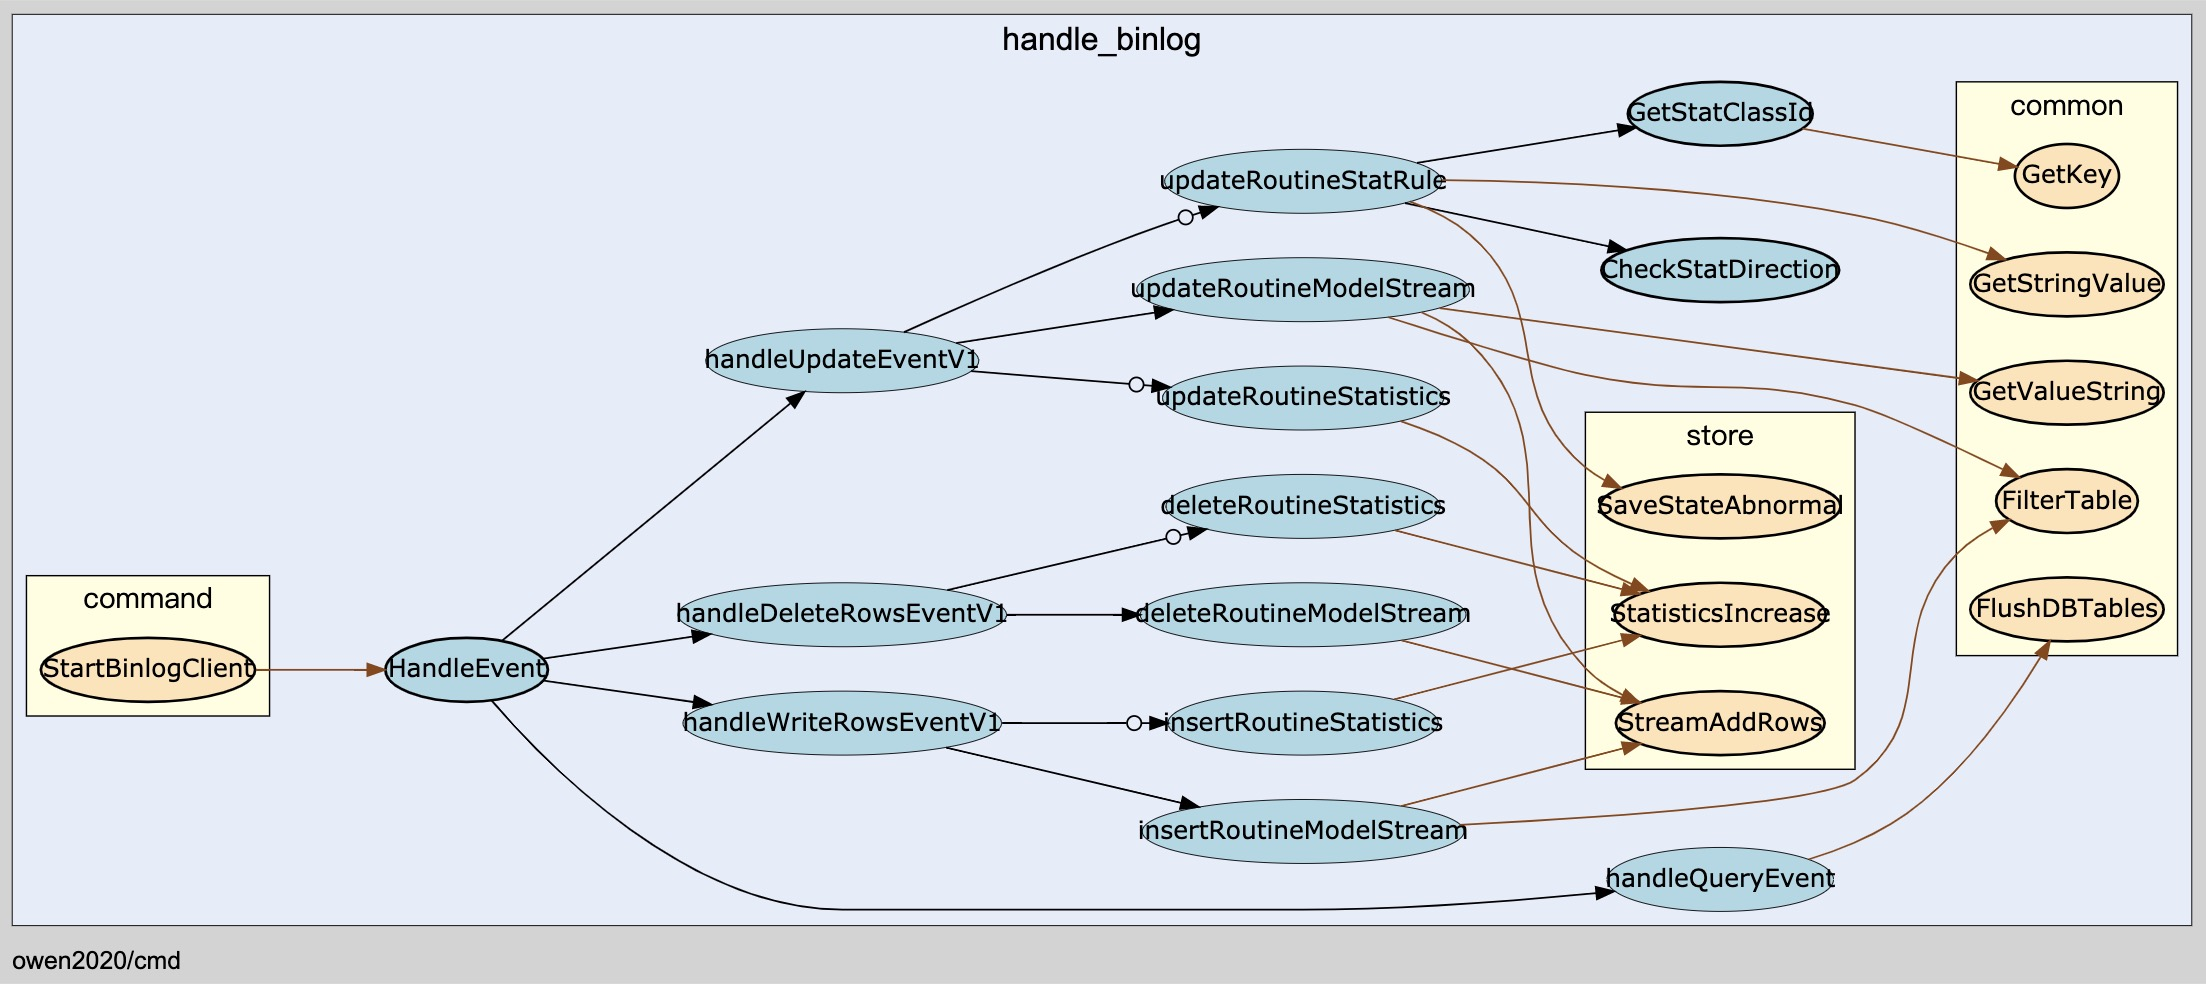
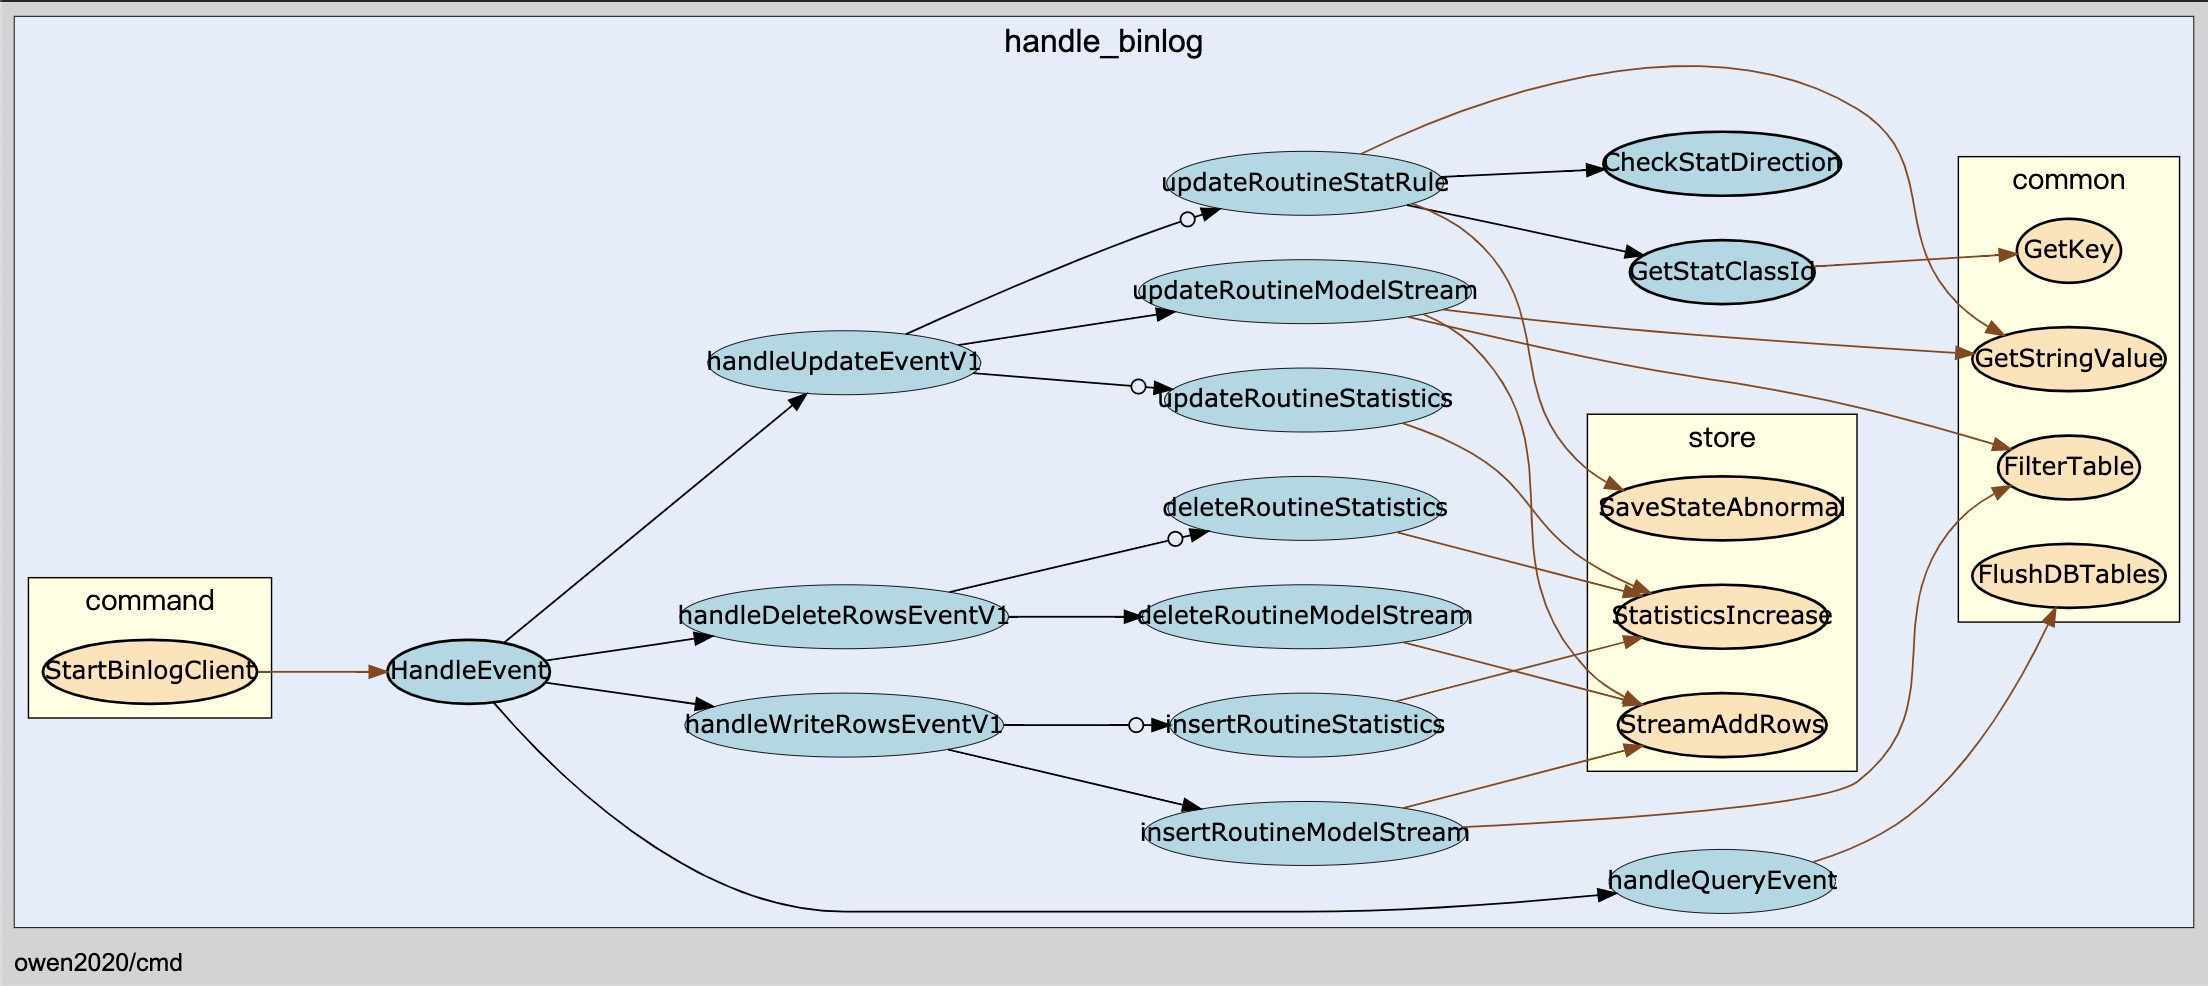
根据代码图优化代码， 彻底不依赖xorm

diff --git a/cmd/command/handle_binlog/common/util.go b/cmd/command/handle_binlog/common/util.go
@@ -2,74 +2,69 @@ package common
 
 import (
 	"errors"
-	"fmt"
-	"reflect"
 	"strconv"
-	"time"
-	"xorm.io/core"
 )
 
 func GetKey(dbName string, tableName string, fieldName string) string {
 	return dbName + "_" + tableName + "_" + fieldName
 }
 
-
-func GetValueString(v interface{}) string {
-	rawValue := reflect.Indirect(reflect.ValueOf(v))
-
-	stringV, _ := value2String(&rawValue)
-	return stringV
-}
+//func GetValueString(v interface{}) string {
+//	rawValue := reflect.Indirect(reflect.ValueOf(v))
+//
+//	stringV, _ := value2String(&rawValue)
+//	return stringV
+//}
 
 // 如果早知这样，直接用xorm就好？
 // 另一种类型断言
 // https://www.jianshu.com/p/787cf3a41ccb
-func value2String(rawValue *reflect.Value) (str string, err error) {
-	aa := reflect.TypeOf((*rawValue).Interface())
-	vv := reflect.ValueOf((*rawValue).Interface())
-	switch aa.Kind() {
-	case reflect.Int, reflect.Int8, reflect.Int16, reflect.Int32, reflect.Int64:
-		str = strconv.FormatInt(vv.Int(), 10)
-	case reflect.Uint, reflect.Uint8, reflect.Uint16, reflect.Uint32, reflect.Uint64:
-		str = strconv.FormatUint(vv.Uint(), 10)
-	case reflect.Float32, reflect.Float64:
-		str = strconv.FormatFloat(vv.Float(), 'f', -1, 64)
-	case reflect.String:
-		str = vv.String()
-	case reflect.Array, reflect.Slice:
-		switch aa.Elem().Kind() {
-		case reflect.Uint8:
-			data := rawValue.Interface().([]byte)
-			str = string(data)
-			if str == "\x00" {
-				str = "0"
-			}
-		default:
-			err = fmt.Errorf("Unsupported struct type %v", vv.Type().Name())
-		}
-	// time type
-	case reflect.Struct:
-		if aa.ConvertibleTo(core.TimeType) {
-			str = vv.Convert(core.TimeType).Interface().(time.Time).Format(time.RFC3339Nano)
-		} else {
-			err = fmt.Errorf("Unsupported struct type %v", vv.Type().Name())
-		}
-	case reflect.Bool:
-		str = strconv.FormatBool(vv.Bool())
-	case reflect.Complex128, reflect.Complex64:
-		str = fmt.Sprintf("%v", vv.Complex())
-	/* TODO: unsupported types below
-	   case reflect.Map:
-	   case reflect.Ptr:
-	   case reflect.Uintptr:
-	   case reflect.UnsafePointer:
-	   case reflect.Chan, reflect.Func, reflect.Interface:
-	*/
-	default:
-		err = fmt.Errorf("Unsupported struct type %v", vv.Type().Name())
-	}
-	return
-}
+//func value2String(rawValue *reflect.Value) (str string, err error) {
+//	aa := reflect.TypeOf((*rawValue).Interface())
+//	vv := reflect.ValueOf((*rawValue).Interface())
+//	switch aa.Kind() {
+//	case reflect.Int, reflect.Int8, reflect.Int16, reflect.Int32, reflect.Int64:
+//		str = strconv.FormatInt(vv.Int(), 10)
+//	case reflect.Uint, reflect.Uint8, reflect.Uint16, reflect.Uint32, reflect.Uint64:
+//		str = strconv.FormatUint(vv.Uint(), 10)
+//	case reflect.Float32, reflect.Float64:
+//		str = strconv.FormatFloat(vv.Float(), 'f', -1, 64)
+//	case reflect.String:
+//		str = vv.String()
+//	case reflect.Array, reflect.Slice:
+//		switch aa.Elem().Kind() {
+//		case reflect.Uint8:
+//			data := rawValue.Interface().([]byte)
+//			str = string(data)
+//			if str == "\x00" {
+//				str = "0"
+//			}
+//		default:
+//			err = fmt.Errorf("Unsupported struct type %v", vv.Type().Name())
+//		}
+//	// time type
+//	case reflect.Struct:
+//		if aa.ConvertibleTo(core.TimeType) {
+//			str = vv.Convert(core.TimeType).Interface().(time.Time).Format(time.RFC3339Nano)
+//		} else {
+//			err = fmt.Errorf("Unsupported struct type %v", vv.Type().Name())
+//		}
+//	case reflect.Bool:
+//		str = strconv.FormatBool(vv.Bool())
+//	case reflect.Complex128, reflect.Complex64:
+//		str = fmt.Sprintf("%v", vv.Complex())
+//	/* TODO: unsupported types below
+//	   case reflect.Map:
+//	   case reflect.Ptr:
+//	   case reflect.Uintptr:
+//	   case reflect.UnsafePointer:
+//	   case reflect.Chan, reflect.Func, reflect.Interface:
+//	*/
+//	default:
+//		err = fmt.Errorf("Unsupported struct type %v", vv.Type().Name())
+//	}
+//	return
+//}
 
 func GetIntValue(a interface{}) (int, error) {
 	switch a.(type) {

diff --git a/cmd/command/handle_binlog/handle_update.go b/cmd/command/handle_binlog/handle_update.go
@@ -61,7 +61,8 @@ func updateRoutineModelStream(ev *replication.RowsEvent) {
 			if !cmp.Equal(value, ev.Rows[next][idx]) {
 				updatedColumns = append(updatedColumns, fieldName)
 				//strValue := fmt.Sprintf("%s", ev.Rows[next][idx])
-				strValue := common.GetValueString(ev.Rows[next][idx])
+				//strValue := common.GetValueString(ev.Rows[next][idx])
+				strValue, _ := common.GetStringValue(ev.Rows[next][idx])
 				updatedData[fieldName] = strValue
 			}
 		}
@@ -128,5 +129,3 @@ func updateRoutineStatistics(ev *replication.RowsEvent) {
 		}
 	}
 }
-
-
